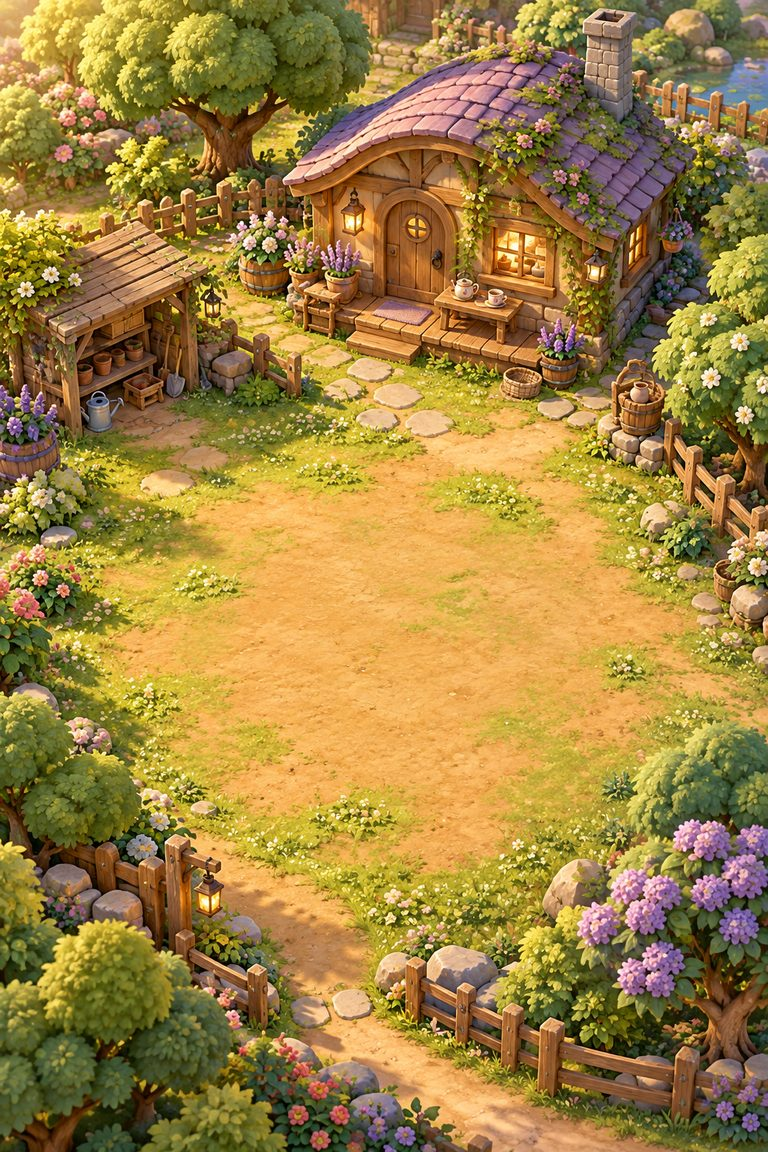
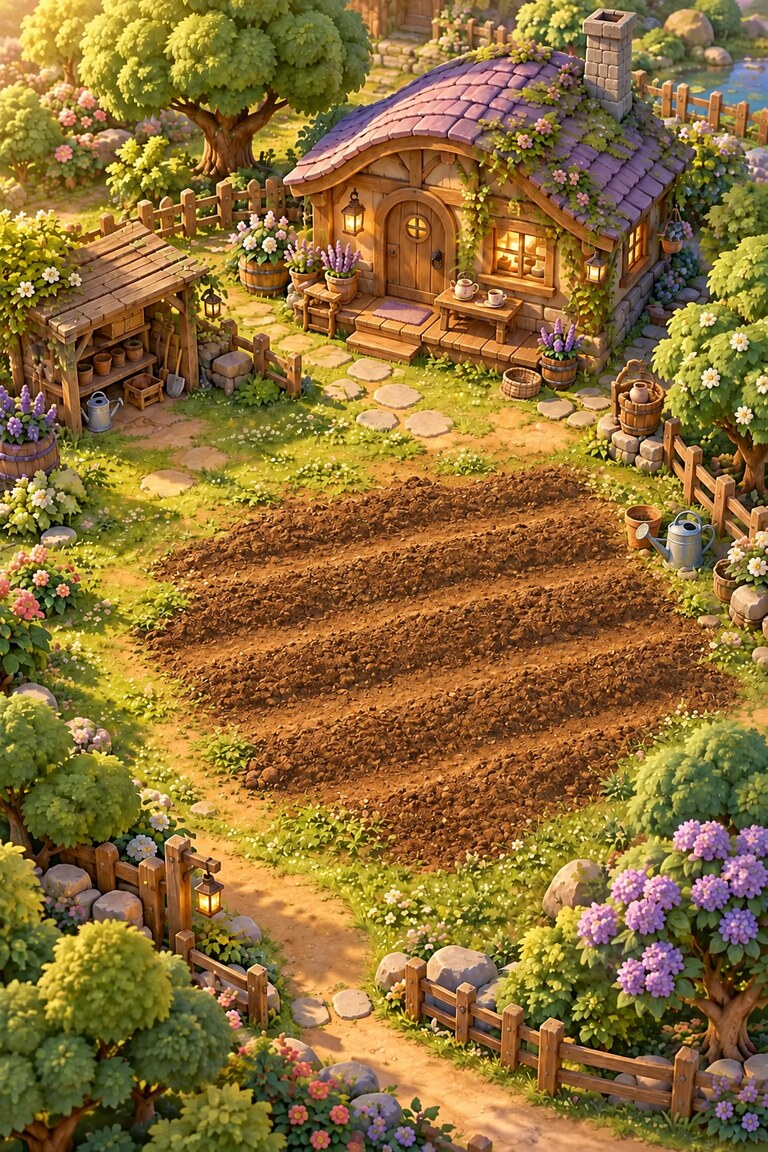
Make the garden a continuous planted field with direct tending

diff --git a/artifacts/mobile/components/world/VegetableGarden.tsx b/artifacts/mobile/components/world/VegetableGarden.tsx
@@ -1,16 +1,17 @@
 import React,{useEffect,useRef,useState} from 'react';
-import {AppState,Pressable,StyleSheet,Text,View} from 'react-native';
-import Svg,{Circle,Defs,Ellipse,G,LinearGradient,Path,RadialGradient,Rect,Stop} from 'react-native-svg';
+import {AppState,Image,Pressable,StyleSheet,Text,View} from 'react-native';
+import Svg,{Circle,Defs,Ellipse,Path,RadialGradient,Rect,Stop} from 'react-native-svg';
 import {useApp} from '@/contexts/AppContext';
 import {useAuth} from '@/contexts/AuthContext';
 import {BottomSheet} from '@/components/ui/BottomSheet';
 import {VillageResident} from '@/components/village/VillageActors';
 import {CROPS,gardenUnlocked,wholesaleUnlocked,readGarden,plotStatus,type CropId,type GardenOperation} from '@/utils/vegetableGarden';
 import {getTodayDate} from '@/utils/dateUtils';
+import {GARDEN_CROP_ART} from '@/utils/worldArt';
 
 const cropIds=Object.keys(CROPS) as CropId[];
 type Action=GardenOperation extends infer O?O extends GardenOperation?Omit<O,'revision'>:never:never;
-function useGarden(){
+export function useGarden(){
  const {feedState,runGarden,isLoading,cloudSynced}=useApp(),{isSignedIn,isLoading:authLoading}=useAuth();
  const [today,setToday]=useState(getTodayDate),[busy,setBusy]=useState(false),[message,setMessage]=useState(''),[error,setError]=useState('');
  const pending=useRef(false),alive=useRef(true);
@@ -19,7 +20,7 @@ function useGarden(){
  const unlocked=gardenUnlocked(feedState),ready=unlocked&&!readError&&!isLoading&&!authLoading&&(!isSignedIn||cloudSynced);
  const act=async(op:Action)=>{
   if(!ready||pending.current)return;pending.current=true;setBusy(true);setError('');setMessage('');
-  try{const saved=await runGarden({...op,revision:garden.revision});if(alive.current)setMessage(saved.message);}
+  try{const saved=await runGarden({...op,revision:garden.revision});if(alive.current)setMessage(saved.message);return saved;}
   catch(e){if(alive.current)setError(e instanceof Error?e.message:'保存できませんでした。もう一度お試しください。');}
   finally{pending.current=false;if(alive.current)setBusy(false);}
  };
@@ -33,46 +34,45 @@ export function GrandmotherResident({size,active,reduceMotion}:{size:number;acti
   <Circle cx="37" cy="47" r="10" fill="#FFFFFF08" stroke="#977451" strokeWidth="1.8"/><Circle cx="64" cy="47" r="10" fill="#FFFFFF08" stroke="#977451" strokeWidth="1.8"/><Path d="M47 45Q51 42 54 45M27 45L21 43M74 45L80 43" stroke="#977451" strokeWidth="1.6" fill="none"/>
  </Svg></View>;
 }
+/** A single shared atlas keeps the field lightweight, including on phones. */
 export function CropArt({crop,growth=7,size=72}:{crop:CropId;growth?:number;size?:number}){
- const mature=growth>=7,fruit=growth>=5,leaves=growth>=3;
- return <Svg width={size} height={size} viewBox="0 0 100 100"><Defs><RadialGradient id={`veg-${crop}`} cx=".3" cy=".25"><Stop stopColor={crop==='tomato'?'#FFAD82':crop==='carrot'?'#FFD082':'#FFFDEF'}/><Stop offset="1" stopColor={crop==='tomato'?'#A72F3A':crop==='carrot'?'#CE6127':'#C8BDA6'}/></RadialGradient><LinearGradient id={`leaf-${crop}`}><Stop stopColor="#A9D966"/><Stop offset="1" stopColor="#3F733F"/></LinearGradient></Defs>
-  <Ellipse cx="51" cy="83" rx={leaves?29:17} ry="7" fill="#2F2A1D30"/>
-  {growth===0?<G><Ellipse cx="48" cy="76" rx="13" ry="5" fill="#8B5636"/><Ellipse cx="48" cy="74" rx="3" ry="2" fill="#EBD1A4"/></G>:<G>
-   <Path d={crop==='tomato'&&leaves?'M50 83V30M50 61L26 43M50 53L74 31':'M50 82Q47 62 51 39'} fill="none" stroke="#517F3C" strokeWidth="4"/>
-   {(leaves?[[45,49,-35],[60,35,35],[35,62,-55],[63,57,40]]:[[41,62,-35],[59,54,40]]).map(([x,y,r],i)=><Ellipse key={i} cx={x} cy={y} rx={leaves?10:8} ry={leaves?19:13} rotation={r} origin={`${x}, ${y}`} fill={`url(#leaf-${crop})`}/>)}
-   {fruit&&(crop==='tomato'?<G>{[[31,63],[67,54],[58,76]].map(([x,y],i)=><G key={i}><Circle cx={x} cy={y} r={mature?14:10} fill={mature?`url(#veg-${crop})`:'#BDCC68'}/><Path d={`M${x-7} ${y-10}l7 3l6-4l-3 7l-7-1Z`} fill="#42743A"/><Ellipse cx={x-4} cy={y-4} rx="3" ry="4" fill="#FFE6BF66"/></G>)}</G>:crop==='turnip'?<G><Path d="M50 81Q58 86 54 92" stroke="#E0D2BD" strokeWidth="2" fill="none"/><Ellipse cx="50" cy="71" rx={mature?23:15} ry={mature?19:12} fill={`url(#veg-${crop})`}/></G>:<G><Path d={mature?'M33 62Q49 51 67 61Q64 84 49 94Q36 79 33 62':'M39 68Q50 59 61 68L51 90Z'} fill={`url(#veg-${crop})`}/><Path d="M40 67L50 69M47 77L58 75M48 85L53 83" stroke="#C66C32" strokeWidth="2" strokeLinecap="round"/></G>)}
-  </G>}
- </Svg>;
+ const tile=growth<5?{x:0,y:0}:crop==='turnip'?{x:1,y:0}:crop==='carrot'?{x:0,y:1}:{x:1,y:1};
+ if(growth===0)return <Svg width={size} height={size} viewBox="0 0 100 100"><Ellipse cx="50" cy="86" rx="15" ry="4" fill="#422C2466"/><Ellipse cx="47" cy="84" rx="3" ry="1.5" fill="#C3A06A"/><Ellipse cx="54" cy="86" rx="2" ry="1" fill="#E4C998"/></Svg>;
+ return <View pointerEvents="none" style={{width:size,height:size,overflow:'hidden'}}><Image source={GARDEN_CROP_ART} resizeMode="stretch" style={{position:'absolute',width:size*2,height:size*2,left:-tile.x*size,top:-tile.y*size}}/></View>;
 }
-export const GARDEN_PLOTS=[{x:.45,y:.53},{x:.68,y:.53},{x:.45,y:.65},{x:.68,y:.65}];
+// Logical saved plantings follow the furrows of one continuous field; no plot borders.
+export const GARDEN_PLOTS=[.465,.535,.605,.675].map(y=>({x:.55,y}));
+function GardenCue({kind}:{kind:'water'|'harvest'|'plant'}){
+ return <View style={{width:26,height:26,borderRadius:13,backgroundColor:kind==='water'?'#E6F5F0EA':'#FFF2D4E8',alignItems:'center',justifyContent:'center',borderWidth:1,borderColor:'#FFFFFF80'}}><Svg width={17} height={17} viewBox="0 0 24 24">{kind==='water'?<Path d="M12 3C10 7 5 11 5 15a7 7 0 0 0 14 0c0-4-5-8-7-12Z" fill="#78AFBF" stroke="#47768D" strokeWidth="1.3"/>:kind==='harvest'?<Path d="m12 2 2.8 7.2L22 12l-7.2 2.8L12 22l-2.8-7.2L2 12l7.2-2.8Z" fill="#D3A340"/>:<><Path d="M12 21V10M12 14C3 15 2 6 3 5c7-1 10 3 9 9ZM12 11C12 4 18 2 22 3c0 6-4 9-10 8Z" fill="#72985B" stroke="#4E7041" strokeWidth="1.2"/></>}</Svg></View>;
+}
 export function GardenBeds({width,height,active,onPlot}:{width:number;height:number;active:boolean;onPlot:(i:number)=>void}){
- const {garden,today,error}=useGarden();
- return <>{error?<Text style={{position:'absolute',left:width*.24,top:height*.52,color:'#FFF4D9',backgroundColor:'#4C3843',padding:12}}>{error}</Text>:GARDEN_PLOTS.map((point,i)=>{
-  const plot=garden.plots[i],status=plotStatus(plot,today),size=width*.20;
-  const label=!plot?'種をまく':status.mature?'収穫できるよ':status.watered?'お水をあげたよ':'お水がほしいな';
-  return <Pressable testID={`garden-plot-${i}`} key={i} accessibilityRole="button" accessibilityLabel={`畑${i+1}、${plot?CROPS[plot.crop].name+'、':''}${label}`} disabled={!active} onPress={()=>onPlot(i)} style={{position:'absolute',left:width*point.x-size/2,top:height*point.y-size*.54,width:size,height:size*.85,zIndex:600}}>
-   <Svg width={size} height={size*.85} viewBox="0 0 140 120"><Defs><LinearGradient id={`soil-${i}`} x2="0" y2="1"><Stop stopColor={status.watered?'#594337':'#94704C'}/><Stop offset="1" stopColor={status.watered?'#3E3029':'#69472F'}/></LinearGradient></Defs><Ellipse cx="71" cy="96" rx="65" ry="17" fill="#3A322636"/><Path d="M4 47L116 36L138 88L22 105Z" fill="#8D623D"/><Path d="M5 39L117 29L138 78L22 95Z" fill={`url(#soil-${i})`} stroke="#C29460" strokeWidth="4"/>{[48,59,70,81].map(y=><Path key={y} d={`M20 ${y}L118 ${y-8}`} stroke="#AE84552F" strokeWidth="2"/>)}</Svg>
-   <View pointerEvents="none" style={{position:'absolute',left:size*.16,bottom:size*.18}}>{plot?<CropArt crop={plot.crop} growth={status.growth} size={size*.75}/>:<Text style={{fontSize:24,color:'#DFC9A2'}}>＋</Text>}</View>
-   <View pointerEvents="none" style={{position:'absolute',bottom:-11,alignSelf:'center',paddingHorizontal:6,paddingVertical:4,borderRadius:6,backgroundColor:status.mature?'#516643EF':'#332A35E8'}}><Text style={{fontSize:10,color:'#FFF0D4'}}>{label}</Text></View>
-  </Pressable>;
+ const {garden,today,error,ready}=useGarden();
+ if(error)return <Text accessibilityRole="alert" style={{position:'absolute',left:width*.24,top:height*.52,color:'#FFF4D9',backgroundColor:'#4C3843',padding:12}}>{error}</Text>;
+ return <>{GARDEN_PLOTS.map((row,i)=>{
+  const plot=garden.plots[i],status=plotStatus(plot,today);
+  const label=!plot?'種をまく':status.mature?'収穫する':status.watered?'育ち具合を見る':'水をあげる';
+  const cue=!plot?'plant':status.mature?'harvest':!status.watered?'water':null;
+  const scale=status.growth<3?.057+status.growth*.013:status.growth<5?.085+(status.growth-3)*.012:.11+(status.growth-5)*.012;
+  return <React.Fragment key={i}>{[.34,.48,.62,.76].map((x,j)=>{
+   const y=row.y+(row.x-x)*.16,size=width*scale*(j%2?.95:1.04),hit=Math.max(44,width*.125);
+   return <Pressable key={j} testID={`garden-plot-${i}${j?'--'+j:''}`} accessibilityRole="button" accessibilityLabel={`${plot?CROPS[plot.crop].name+'、':''}${label}、${i+1}列目`} disabled={!active||!ready} onPress={()=>onPlot(i)} style={{position:'absolute',left:width*x-hit/2,top:height*y-hit*.80,width:hit,height:hit,zIndex:600+i}}>
+    {plot&&<View pointerEvents="none" style={{position:'absolute',left:(hit-size)/2,top:hit*.80-size*.90}}><CropArt crop={plot.crop} growth={status.growth} size={size}/></View>}
+
+   </Pressable>;
+  })}{cue&&<Pressable testID={`garden-cue-${i}`} accessibilityRole="button" accessibilityLabel={`${plot?CROPS[plot.crop].name+'、':''}${label}、${i+1}列目`} disabled={!active||!ready} onPress={()=>onPlot(i)} style={{position:'absolute',left:width*.62-22,top:height*(row.y+(row.x-.62)*.16)-Math.max(44,width*.125)*.80+(plot?-Math.max(4,width*scale*1.04-Math.max(44,width*.125)*.58):Math.max(44,width*.125)*.25)-9,width:44,height:44,zIndex:720+i,alignItems:'center',justifyContent:'center'}}><GardenCue kind={cue}/></Pressable>}</React.Fragment>;
  })}</>;
 }
 function Feedback({garden}:{garden:ReturnType<typeof useGarden>}){return <>{!!garden.error&&<Text accessibilityRole="alert" style={s.error}>{garden.error}</Text>}{!!garden.message&&<Text accessibilityLiveRegion="polite" style={s.success}>{garden.message}</Text>}</>;}
 export function GardenSheet({plotIndex,onClose,onShop}:{plotIndex:number;onClose:()=>void;onShop:()=>void}){
  const g=useGarden(),plot=g.garden.plots[plotIndex],status=plotStatus(plot,g.today);
- return <BottomSheet visible title={`おばあさんの畑 · ${plotIndex+1}`} subtitle="少しずつ育つ、ふたりの楽しみ。" onClose={()=>{if(!g.busy)onClose();}}>
+ const plant=async(crop:CropId)=>{const saved=await g.act({kind:'plant',plot:plotIndex,crop});if(saved?.changed)onClose();};
+ return <BottomSheet visible title={plot?CROPS[plot.crop].name:'種をまく'} maxHeightRatio={.55} contentStyle={{gap:12}} onClose={()=>{if(!g.busy)onClose();}}>
   <Feedback garden={g}/>
   {plot?<>
-   <View style={{alignItems:'center'}}><CropArt crop={plot.crop} growth={status.growth} size={118}/><Text style={s.title}>{CROPS[plot.crop].name}</Text></View>
-   <Text style={s.copy}>{status.mature?'大きく育ったね。そろそろ収穫しよう！':`種まき ${plot.planted} · 育った日 ${status.growth}/7日\n${status.growth<1?'土の中で、芽を出す準備をしている。':status.growth<3?'小さな芽が顔を出した。':status.growth<5?'葉が大きく広がってきた。':plot.crop==='tomato'?'小さな実がふくらんできた。':'土の中で、野菜が丸々と育っている。'}`}</Text>
-   <Pressable testID={status.mature?'garden-harvest':'garden-water'} accessibilityRole="button" disabled={!g.ready||g.busy||(!status.mature&&status.watered)} style={[s.button,(!status.mature&&status.watered)&&s.disabled]} onPress={()=>void g.act({kind:status.mature?'harvest':'water',plot:plotIndex})}><Text style={s.buttonText}>{g.busy?'保存しています…':status.mature?`${CROPS[plot.crop].yield}個収穫する`:status.watered?'今日のお水はあげました':'お水をあげる'}</Text></Pressable>
-  </>:<>
-   <Text style={s.copy}>どの種をまこう。最初のお水も一緒にあげるよ。</Text>
-   {cropIds.map(c=><Pressable key={c} testID={`garden-plant-${c}`} accessibilityRole="button" disabled={!g.ready||g.busy||!g.garden.seeds[c]} onPress={()=>void g.act({kind:'plant',plot:plotIndex,crop:c})} style={[s.row,!g.garden.seeds[c]&&s.disabled]}><CropArt crop={c} size={55}/><View style={{flex:1}}><Text style={s.title}>{CROPS[c].seedName}</Text><Text style={s.small}>持っている種 {g.garden.seeds[c]}袋 · 最短7日</Text></View><Text style={s.small}>{g.garden.seeds[c]?'まく':'種がないよ'}</Text></Pressable>)}
-  </>}
-  <Text style={s.small}>1日1回、お水をあげた翌日に少し育ちます。7日分育つと収穫。来られない日があっても、枯れません。</Text>
-  <View style={s.row}><Text style={s.copy}>収穫かご</Text><Text style={s.small}>{cropIds.map(c=>`${CROPS[c].name} ${g.garden.produce[c]}`).join(' / ')}</Text></View>
-  <Pressable accessibilityRole="button" disabled={g.busy} onPress={onShop} style={s.button}><Text style={s.buttonText}>暮らしのお店で種を買う・野菜を売る</Text></Pressable>
+   <View style={{alignItems:'center',flexDirection:'row',gap:20}}><CropArt crop={plot.crop} growth={Math.max(1,status.growth)} size={88}/><View style={{gap:12}}><Text style={s.copy}>{status.mature?'収穫できるよ':status.watered?'今日のお水は、ばっちり。':'お水をあげよう'}</Text><View accessibilityLabel={`成長 ${status.growth} / 7日`} style={{flexDirection:'row',gap:6}}>{Array.from({length:7},(_,i)=><View key={i} style={{width:12,height:12,borderRadius:6,backgroundColor:i<status.growth?'#C4D799':'#544A5C'}}/>)}</View></View></View>
+   {(!status.watered||status.mature)&&<Pressable testID={status.mature?'garden-harvest':'garden-water'} accessibilityRole="button" disabled={!g.ready||g.busy} style={s.button} onPress={async()=>{const saved=await g.act({kind:status.mature?'harvest':'water',plot:plotIndex});if(saved?.changed)onClose();}}><Text style={s.buttonText}>{status.mature?'収穫する':'水をあげる'}</Text></Pressable>}
+  </>:<View style={{flexDirection:'row',gap:8}}>{cropIds.map(c=><Pressable key={c} testID={`garden-plant-${c}`} accessibilityRole="button" accessibilityLabel={`${CROPS[c].seedName}をまく、残り${g.garden.seeds[c]}袋`} disabled={!g.ready||g.busy||!g.garden.seeds[c]} onPress={()=>void plant(c)} style={[{flex:1,alignItems:'center',paddingVertical:12,borderRadius:16,backgroundColor:'#393040',gap:4},!g.garden.seeds[c]&&s.disabled]}><CropArt crop={c} size={68}/><Text style={s.buttonText}>{CROPS[c].name}</Text><Text style={s.small}>× {g.garden.seeds[c]}</Text></Pressable>)}</View>}
+  <Pressable accessibilityRole="button" disabled={g.busy} onPress={onShop} style={{minHeight:44,alignItems:'center',justifyContent:'center'}}><Text style={s.small}>種を買いに行く →</Text></Pressable>
  </BottomSheet>;
 }
 export function ProduceTrade({venue}:{venue:'homewares'|'ramen'}){
@@ -84,6 +84,6 @@ export function ProduceTrade({venue}:{venue:'homewares'|'ramen'}){
 }
 export function SeedShop(){
  const g=useGarden();
- return <View style={{gap:12}}>{!g.unlocked?<Text style={s.copy}>畑の種は、おばあさんに家へ招待してもらうと買えるようになります。</Text>:<><Text style={s.copy}>どの野菜も最短7日で収穫できます。1袋で1つの畑、収穫は3個。</Text><Feedback garden={g}/>{cropIds.map(c=><View key={c} style={s.row}><CropArt crop={c} size={66}/><View style={{flex:1,gap:6}}><Text style={s.title}>{CROPS[c].seedName}</Text><Text style={s.small}>持っている種 {g.garden.seeds[c]}袋</Text><Pressable testID={`garden-buy-${c}`} accessibilityRole="button" disabled={!g.ready||g.busy||g.feedState.points<CROPS[c].price} onPress={()=>void g.act({kind:'buy',crop:c})} style={[s.button,(g.busy||g.feedState.points<CROPS[c].price)&&s.disabled]}><Text style={s.buttonText}>{CROPS[c].price} ptで1袋買う</Text></Pressable></View></View>)}<ProduceTrade venue="homewares"/></>}</View>;
+ return <View style={{gap:12}}>{!g.unlocked?<Text style={s.copy}>畑の種は、おばあさんに家へ招待してもらうと買えるようになります。</Text>:<><Text style={s.small}>7日で収穫 · 1袋から3個</Text><Feedback garden={g}/>{cropIds.map(c=><View key={c} style={s.row}><CropArt crop={c} size={66}/><View style={{flex:1,gap:6}}><Text style={s.title}>{CROPS[c].seedName}</Text><Text style={s.small}>持っている種 {g.garden.seeds[c]}袋</Text><Pressable testID={`garden-buy-${c}`} accessibilityRole="button" disabled={!g.ready||g.busy||g.feedState.points<CROPS[c].price} onPress={()=>void g.act({kind:'buy',crop:c})} style={[s.button,(g.busy||g.feedState.points<CROPS[c].price)&&s.disabled]}><Text style={s.buttonText}>{CROPS[c].price} ptで1袋買う</Text></Pressable></View></View>)}<ProduceTrade venue="homewares"/></>}</View>;
 }
 const s=StyleSheet.create({row:{flexDirection:'row',alignItems:'center',gap:12,padding:12,borderRadius:12,backgroundColor:'#302738',marginVertical:5,flexWrap:'wrap'},title:{fontSize:15,fontWeight:'600',color:'#F4E7D6'},copy:{fontSize:13,lineHeight:24,color:'#E5D5C0',marginVertical:10},small:{fontSize:11,lineHeight:20,color:'#C6B5C9'},button:{minHeight:44,paddingHorizontal:13,paddingVertical:11,borderRadius:10,backgroundColor:'#674F76',justifyContent:'center',marginVertical:6},buttonText:{fontSize:13,lineHeight:20,textAlign:'center',color:'#FFF2DD'},disabled:{opacity:.45},error:{fontSize:12,lineHeight:21,color:'#F4BCB4'},success:{fontSize:13,lineHeight:23,color:'#DFE9BA',padding:10,backgroundColor:'#354735',borderRadius:9}});

diff --git a/artifacts/mobile/components/world/WorldHome.tsx b/artifacts/mobile/components/world/WorldHome.tsx
@@ -1,5 +1,5 @@
-import {GardenBeds,GardenSheet,GrandmotherResident,GARDEN_PLOTS} from './VegetableGarden';
-import {gardenUnlocked,readGarden,wholesaleUnlocked} from '@/utils/vegetableGarden';
+import {GardenBeds,GardenSheet,GrandmotherResident,GARDEN_PLOTS,useGarden} from './VegetableGarden';
+import {gardenUnlocked,readGarden,wholesaleUnlocked,plotStatus} from '@/utils/vegetableGarden';
 import {useVillageStories,VillageStoryDialogue,StoryEncounterActor,StoryWorldKeepsakes} from './VillageStories';
 import {storyEncounters,canHearStory,type StoryEncounter,type StoryMerchant} from '@/utils/storyEncounters';
 import {useAuth} from '@/contexts/AuthContext';
@@ -80,6 +80,10 @@ export function WorldHome(props: Props) {
   const {reduceMotion} = props;
   const {awardHappiness,feedState,bowlingState}=useApp();
   const grandmaUnlocked=gardenUnlocked(feedState);
+  const garden=useGarden();
+  const [gardenNotice,setGardenNotice]=useState('');
+  useEffect(()=>{if(!gardenNotice)return;const timer=setTimeout(()=>setGardenNotice(''),4500);return()=>clearTimeout(timer);},[gardenNotice]);
+  useEffect(()=>{if(garden.error)setGardenNotice(garden.error);},[garden.error]);
   let harvested=false;try{harvested=readGarden(feedState.vegetableGarden).harvests>0;}catch{}
   const [gardenPlot,setGardenPlot]=useState<number|null>(null),[grandmaOpen,setGrandmaOpen]=useState(false);
   const [zooming,setZooming]=useState(false);
@@ -122,7 +126,7 @@ export function WorldHome(props: Props) {
   const pending=useRef<{id:number;action:VillageAction}|null>(null);
   const [mapMessage,setMapMessage]=useState('');
   const transition=useSceneTransition(reduceMotion,()=>setMapMessage('景色を読み込めませんでした。もう一度、行き先を選んでね。'));
-  const active=props.active&&gardenPlot===null&&!grandmaOpen&&!storyOpen&&!plaza.open&&!bowlingOpen&&!cleanOpen&&!bankOpen&&!fortuneOpen&&!mapOpen&&!placesOpen&&!viewOpen&&!neighbor&&!transition.busy&&!zooming;
+  const active=props.active&&!garden.busy&&gardenPlot===null&&!grandmaOpen&&!storyOpen&&!plaza.open&&!bowlingOpen&&!cleanOpen&&!bankOpen&&!fortuneOpen&&!mapOpen&&!placesOpen&&!viewOpen&&!neighbor&&!transition.busy&&!zooming;
   const housekeeping=useHousekeeping(props.active);
   useEffect(()=>{if(!housekeeping.house.robotPlaced)setRiding(false);},[housekeeping.house.robotPlaced]);
   const [bowlingBusy,setBowlingBusy]=useState(false);
@@ -269,7 +273,14 @@ export function WorldHome(props: Props) {
     else if(a.kind==='shop')props.onShop();
     else if(a.kind==='feed')props.onFeed();
     else if(a.kind==='story')openStory(a.encounter);
-    else if(a.kind==='garden')setGardenPlot(a.plot);
+    else if(a.kind==='garden'){
+      const plot=garden.garden.plots[a.plot],status=plotStatus(plot,garden.today);
+      if(!garden.ready||garden.busy)return;
+      if(!plot||(!status.mature&&status.watered)){setGardenPlot(a.plot);return;}
+      void garden.act({kind:status.mature?'harvest':'water',plot:a.plot}).then(saved=>{
+        if(saved?.changed)setGardenNotice(status.mature?`${plot.crop==='turnip'?'小かぶ':plot.crop==='carrot'?'にんじん':'トマト'} ＋3`:'水をあげたよ');
+      });
+    }
     else if(a.kind==='plaza'){view.reset();plaza.talk();}
     else if(a.kind==='neighbor'){setNeighbor(a.id);setReply('');}
   };
@@ -330,8 +341,8 @@ export function WorldHome(props: Props) {
       {sceneResidents.map(encounter=><StoryEncounterActor key={encounter.key} encounter={encounter} width={width} height={height} active={active&&!props.food&&!experience} reduceMotion={reduceMotion} onTalk={()=>request(encounter.id==='grandma'?{x:encounter.point.x-.14,y:encounter.point.y+.035}:encounter.point,{kind:'story',encounter})}/>)}
       {stories.ready&&<StoryWorldKeepsakes hideNewcomer={sceneResidents.some(st=>st.id==='newcomer'||st.id==='festival')} state={stories.state} map={map} width={width} height={height} active={active} reduceMotion={reduceMotion} onTalk={()=>setMapMessage(stories.state.arcs.festival?.episodes.length===6?'あのお祭り、楽しかったね。今日もここで、のんびりしていって。':'おかえり！ あのお茶会から、ここで誰かに会うのが楽しみになったんだ。')}/>}
       {map==='grandma'&&grandmaUnlocked&&<>
-       <GardenBeds width={width} height={height} active={active&&!props.food} onPlot={i=>request({x:GARDEN_PLOTS[i].x-.05,y:GARDEN_PLOTS[i].y+.065},{kind:'garden',plot:i})}/>
-       <Pressable testID="garden-grandmother" accessibilityRole="button" accessibilityLabel="おばあさんと話す" disabled={!active||!!props.food} onPress={()=>{steering.value={x:0,y:0};setDestination(null);pending.current=null;setGrandmaOpen(true);}} style={{position:'absolute',left:width*.24,top:height*.48-width*.17,zIndex:700}}><GrandmotherResident size={width*.17} active={active} reduceMotion={reduceMotion}/></Pressable>
+       <GardenBeds width={width} height={height} active={active&&!props.food} onPlot={i=>request({x:.23,y:GARDEN_PLOTS[i].y+.08},{kind:'garden',plot:i})}/>
+       <Pressable testID="garden-grandmother" accessibilityRole="button" accessibilityLabel="おばあさんと話す" disabled={!active||!!props.food} onPress={()=>{steering.value={x:0,y:0};setDestination(null);pending.current=null;setGrandmaOpen(true);}} style={{position:'absolute',left:width*.15,top:height*.45-width*.17,zIndex:700}}><GrandmotherResident size={width*.17} active={active} reduceMotion={reduceMotion}/></Pressable>
       </>}
       {map==='lake'&&<VillageWheel width={width} height={height} active={active} reduceMotion={reduceMotion} riding={experience==='wheel'} onFinish={finishExperience}/>}
       {map==='village'&&<VillageNeighbors width={width} height={height} active={active&&!experience} reduceMotion={reduceMotion} onTalk={id=>{const n=VILLAGERS.find(p=>p.id===id)!;request({x:n.x+.06,y:n.y+.035},{kind:'neighbor',id});}}/>}
@@ -364,7 +375,7 @@ export function WorldHome(props: Props) {
     {!experience&&(map==='home'||(map==='market'&&!plaza.current&&!plaza.error)||map==='workshop')&&<View style={{position:'absolute',right:20,bottom:away?dockBottom+30:bounds.height<600?177:244}}><WorldPill testID="world-go-work" label={map==='workshop'?'仕事を始める':'バイトする'} icon="briefcase" onPress={()=>map==='workshop'?openMerchant('job',{x:.5,y:.48}):enterMap('workshop')} disabled={!active||!!props.food||riding||!!cleanTool}/></View>}
     {storyOpen&&<VillageStoryDialogue encounter={storyOpen} onGo={target=>{setStoryOpen(null);enterMap(target);}} onClose={()=>setStoryOpen(null)} onBowl={()=>{pendingBowlStory.current=storyOpen;setStoryOpen(null);serveMerchant('bowling',{x:.72,y:.57});}} service={storyOpen.merchant?{label:storyOpen.id==='supply'&&wholesaleUnlocked(feedState)?'野菜を卸す':({ramen:'ラーメンを注文する',shop:'買い物をする',job:'バイトを始める',bowling:'ボウリングをする',fortune:'占ってもらう'} satisfies Record<StoryMerchant,string>)[storyOpen.merchant],run:()=>{const kind=storyOpen.merchant!;if(kind==='bowling'&&!bowlingPlayedToday(bowlingState,getTodayDate())&&storyOpen.id==='bowling'&&storyOpen.index===4)pendingBowlStory.current=storyOpen;setStoryOpen(null);serveMerchant(kind,{x:.5,y:.55});}}:undefined}/>}
     {map==='grandma'&&grandmaUnlocked&&gardenPlot!==null&&<GardenSheet plotIndex={gardenPlot} onClose={()=>setGardenPlot(null)} onShop={()=>{setGardenPlot(null);props.onShop('seeds');}}/>}
-    {grandmaOpen&&<BottomSheet visible title="もふもふのおばあさん" onClose={()=>setGrandmaOpen(false)}><View style={{alignItems:'center'}}><GrandmotherResident size={95} active={props.active} reduceMotion={reduceMotion}/></View><Text style={s.dialogue}>{harvested?'「あら、畑の土がいい匂い。育ったところを一緒に見られるの、うれしいよ。お茶もいれてあるからね」':'「よく来たねえ。畑は4つ、どこでも使っておくれ。今日は種をまくだけでもいいんだよ」'}</Text><Text style={s.mapCopy}>水やりは1日1回。種まきの日から最短7日で収穫できます。来られない日があっても枯れず、水をあげた分だけゆっくり育ちます。</Text><WorldPill label="畑を見てくるね" onPress={()=>setGrandmaOpen(false)}/></BottomSheet>}
+    {grandmaOpen&&<BottomSheet visible title="もふもふのおばあさん" onClose={()=>setGrandmaOpen(false)}><View style={{alignItems:'center'}}><GrandmotherResident size={95} active={props.active} reduceMotion={reduceMotion}/></View><Text style={s.dialogue}>{harvested?'「あら、畑の土がいい匂い。育ったところを一緒に見られるの、うれしいよ。お茶もいれてあるからね」':'「よく来たねえ。畑、好きに使っておくれ。お茶もいれてあるよ」'}</Text><WorldPill label="畑を見てくるね" onPress={()=>setGrandmaOpen(false)}/></BottomSheet>}
     {!!props.music.error&&<Text style={[s.musicNotice,{top:insets.top+(tight?112:162)}]}>{props.music.error}</Text>}
     <Modal visible={bowlingOpen} animationType={reduceMotion?'none':'fade'} onRequestClose={()=>{if(!bowlingBusy){setBowlingOpen(false);view.reset();}}} statusBarTranslucent>
       <View style={{flex:1,backgroundColor:'#14131D',paddingTop:Math.max(insets.top,12),paddingBottom:Math.max(insets.bottom,12),paddingHorizontal:10}}>
@@ -408,6 +419,7 @@ export function WorldHome(props: Props) {
     {bankOpen&&<BankHall onClose={()=>{setBankOpen(false);view.reset();}}/>}
     {fortuneOpen&&<FortuneHall onClose={()=>{setFortuneOpen(false);view.reset();}}/>}
     {mapOpen&&<VillageMap current={map} night={night} level={props.level} disabled={!!experience||!!props.food||transition.busy} onSelect={id=>enterMap(id,true)} onClose={()=>setMapOpen(false)}/>}
+    {map==='grandma'&&!!gardenNotice&&<Pressable accessibilityRole="button" accessibilityLabel="畑のお知らせを閉じる" onPress={()=>setGardenNotice('')} style={{position:'absolute',bottom:112,alignSelf:'center',paddingHorizontal:20,paddingVertical:12,borderRadius:24,backgroundColor:'#302B35EC'}}><Text accessibilityLiveRegion="polite" style={s.trailText}>{gardenNotice}</Text></Pressable>}
     {!!mapMessage&&!mapOpen&&<Pressable accessibilityRole="button" accessibilityLabel="道の案内を閉じる" onPress={()=>setMapMessage('')} style={[s.notice,{top:insets.top+166}]}><Text accessibilityLiveRegion="polite" style={s.trailText}>{mapMessage}　×</Text></Pressable>}
     {experience&&<View testID="village-experience" style={[s.experience,{bottom:dockBottom+4,left:132,right:16,padding:10,gap:5}]}>
       <Text testID="village-experience-status" style={s.experienceText}>{experience==='smoke'?`${smoking.running?'喫煙中':'一服おわり'} ${Math.floor(smoking.elapsedMs/1000)}/60秒 · 幸福＋${smoking.receipt?.gained??0} 清潔−${smoking.receipt?.dirt??0}`:experience==='wheel'?'空から、いつもの世界を眺めよう。':experienceMessage}</Text>

diff --git a/artifacts/mobile/data/villageStories.ts b/artifacts/mobile/data/villageStories.ts
@@ -46,7 +46,7 @@ export const VILLAGE_STORIES:VillageStory[] = [
   e('小さな村の、大きな夜','market','村のみんな','湯気、提灯、ボウリング大会の旗。猫も、鈴をつけてやって来た。\nもふもふが「おかえり！」と手を振っている。',['屋台をみんなと回る','灯りの下で一緒に過ごす'],['ラーメンをすすり、旗を振って、猫の話を聞いた。どこへ行っても、知っている顔がある。','にぎやかな声を少し離れて聞いた。もふもふが隣へ来て、同じ灯りを見上げた。'],'にぎやかな夜の、そのあと。'),
   e('また、ここで','market','引っ越してきたもふもふ','片づけた広場に、少しだけ提灯を残した。\n「最初、ここに来たときは、何も知らなかったのにね」\n机には、みんなで撮った写真が一枚。',['集合写真を受け取る','「またやろうね」と伝える'],['真ん中で笑うもふもふ。そのとなりにあなた。村と過ごした日々が、思い出になった。','「うん、また！」その言葉と集合写真を、大切に持ち帰った。'],'今日は何も起きなくても、この村はあなたを覚えている。'),
  ]},
- {id:'grandma',title:'おばあさんの、もう一度の畑',subtitle:'広場の小さな出会いから、お茶と畑のある暮らしへ。',requires:[],keepsake:'おばあさんが描いてくれた家の地図',ending:'地図に「おばあさんの家」が加わりました。4つの畑と、最初の種を自由に使えます。',episodes:[
+ {id:'grandma',title:'おばあさんの、もう一度の畑',subtitle:'広場の小さな出会いから、お茶と畑のある暮らしへ。',requires:[],keepsake:'おばあさんが描いてくれた家の地図',ending:'地図に「おばあさんの家」が加わりました。畑と、最初の種を自由に使えます。',episodes:[
   e('ころころ転がる買い物','market','もふもふのおばあさん','広場の石畳に、買い物かごから転がったみかん。おばあさんがひとつずつ拾っている。\n「あらあら、今日はかごの方が先に帰りたかったのかねえ」',['一緒にみかんを拾う','かごを押さえて手伝う'],['「ありがとう。これでジャムが作れるよ」おばあさんは、かごを抱えてにっこり笑った。','最後のみかんを拾って「気づいてくれて、うれしかったよ」と笑った。'],'また広場で会えたら、声をかけてみよう。'),
   e('覚えていてくれた顔','ramen','もふもふのおばあさん','ラーメン屋の席から、小さく手が振られた。\n「この前の子だね。ここのスープ、昔うちで作った野菜の味を思い出すんだよ」',['隣で昔の畑の話を聞く','どんな野菜を育てていたか聞く'],['「かぶに、にんじん。トマトはね、つまみ食いの方が多かった」話すうちに、おばあさんの声が弾んだ。','「形は不ぞろいでも、採れたては甘いんだ」窓の外を見ながら、懐かしそうに笑った。'],'次に会うのは、暮らしのお店かもしれない。'),
   e('ふたり分のお茶','homewares','もふもふのおばあさん','棚の前で、おばあさんが小さな茶器を見比べている。\n「誰かとお茶を飲むのも、しばらくぶりでね。どっちにしようか」',['花模様の茶器をすすめる','手になじむ丸い茶器をすすめる'],['「きみが来たら、この湯のみを使おうか」ひとつだった買い物かごに、ふたつの湯のみが並んだ。','「そうそう、こういう丸さが好きなんだよ」おばあさんは、もうひとつ同じものを選んだ。'],'広場で、畑を休ませた理由を聞く。'),

diff --git a/artifacts/mobile/utils/worldArt.ts b/artifacts/mobile/utils/worldArt.ts
@@ -4,6 +4,7 @@ import type { WorldMapId } from './worldMaps';
 
 // Web uses smaller encodings; native retains its existing JPEG/PNG assets.
 const webArt = (web: number, native: number) => Platform.OS === 'web' ? web : native;
+export const GARDEN_CROP_ART = webArt(require('@/assets/images/world/garden-crops.webp'), require('@/assets/images/world/garden-crops.png'));
 export const VILLAGE_ATLAS = webArt(require('@/assets/images/world/village-atlas.webp'), require('@/assets/images/world/village-atlas.jpg'));
 export const MERCHANT_ART = {
   bank: webArt(require('@/assets/images/world/bank-teller.webp'), require('@/assets/images/world/bank-teller.png')),
@@ -53,7 +54,7 @@ export function prepareWorldArt(map: WorldMapId, night = false): Promise<void> {
   const existing = scenes.get(key);
   if (existing) return existing;
   const portrait = map === 'bank' ? MERCHANT_ART.bank : map === 'fortune' ? FORTUNE_CAT_ART : map === 'homewares' ? MERCHANT_ART.shop : map === 'workshop' ? MERCHANT_ART.job : map === 'bowling' ? MERCHANT_ART.bowling : map === 'ramen' ? MERCHANT_ART.ramen : map === 'tobacco' ? MERCHANT_ART.tobacco : undefined;
-  const sources = [worldArt(map, night), ...(portrait ? [portrait] : [])];
+  const sources = [worldArt(map, night), ...(map === 'grandma' ? [GARDEN_CROP_ART] : []), ...(portrait ? [portrait] : [])];
   const promise = Promise.all(sources.map(prepareImage)).then(() => {}).catch(error => { scenes.delete(key); throw error; });
   scenes.set(key, promise);
   return promise;

diff --git a/docs/GARDEN_VISUAL_20261013.md b/docs/GARDEN_VISUAL_20261013.md
@@ -1,0 +1,32 @@
+# 畑の見た目と操作の更新 — 2026-10-13
+
+4つの箱を描く方式をやめ、家の庭に直接続く一枚の畑に変更。土の畝に野菜を並べ、常時表示の説明札と長い育て方の説明を削除しました。
+
+水が必要な野菜は水滴、収穫できる野菜は光、種をまける場所は芽の合図で表示。野菜または合図をタップして近づくと、その場で水やり・収穫を行います。種まきは3種類の種と所持数だけの小さな選択画面です。水やり済みの野菜は短い状態表示と7つの成長目盛りで確認できます。
+
+既存の4件の植え付けデータをそのまま畝に割り当てるため、移行・初期化は不要です。7日分の水やり、収穫、販売、卸売のルールは変更していません。
+
+## 素材
+
+組み込みの image_gen ツールを使用。以下は生成結果を配信用サイズ・形式に変換したものです。Webでは背景233KB、共通の野菜アトラス185KB。アトラス1枚を複数の株で共有し、畑に入る際に先読みします。
+
+- `/workspace/scratch/e5c65962f54a/yoki/artifacts/mobile/assets/images/world/grandmother-garden.webp`
+- `/workspace/scratch/e5c65962f54a/yoki/artifacts/mobile/assets/images/world/grandmother-garden.jpg`
+- `/workspace/scratch/e5c65962f54a/yoki/artifacts/mobile/assets/images/world/garden-crops.webp`
+- `/workspace/scratch/e5c65962f54a/yoki/artifacts/mobile/assets/images/world/garden-crops.png`
+
+## 生成プロンプト
+
+### 背景の編集
+
+Use case: precise-object-edit. Edit target: supplied portrait 3D cozy cottage game background. Preserve cottage, trees, flowers, fence, lighting, camera angle and portrait composition exactly. Change only the empty ochre dirt clearing in the middle foreground into a beautiful real vegetable field integrated directly into the ground. ONE connected irregular patch of rich crumbly tilled brown earth, not separate square plots, no wood borders, no raised planter boxes, no grid. Main cultivated earth occupies x=36% to 77% and y=47% to 70% of full image. Four long closely spaced gently diagonal furrows running almost horizontally across this one continuous patch, from left slightly lower to right slightly higher. Soft realistic moist soil clumps, warm highlights, convincing ridges and recesses, natural grassy uneven edges. NO vegetables yet, no plants within the furrows: these are an empty game layer for later crop sprites. Leave a walkable narrow path along the left edge and foreground. Tiny terracotta seed pot and weathered watering can at the far right edge are okay. Keep beautiful soft detailed 3D storybook game style. No UI, no words, no frames, no people.
+
+### 透過の野菜アトラス
+
+Use case: stylized-concept. Asset type: transparent 2 by 2 game sprite atlas, square image. Four distinct isolated vegetable PLANTS for a cozy high quality 3D garden game. TRUE transparent background. Divide canvas into exactly equal quadrants, ample transparent padding within EACH cell, no overlap between cells. Each plant base center aligned within its cell at 75 percent height, plant fits between 15 and 85 percent width and 10 and 80 percent height. Top left: a small delicate seedling with four vibrant fleshy green leaves and short stalk, rooted in tiny natural dark soil crumbs. Top right: lush small white turnip plant growing in ground, spherical white bulb shoulder only partly exposed above soil, a generous cluster of curling green leaves. Bottom left: lush carrot plant with feathery natural fine fernlike green foliage, tiny orange shoulder peeking at base, most of root remains underground, NOT a harvested carrot. Bottom right: compact bushy tomato plant with leafy curved stems, several ripe small red and orange tomatoes and a slender bamboo support stake. Exact same isometric view from above around 40 degrees, soft golden light upper left, detailed sculpted 3D leaves with subtle translucency and curled edges, believable small soft contact shadows. Beautiful soft tactile 3D rendering, natural farm garden plants, not icons, not cartoon flat vectors. Each object is standalone and fully contained in its allotted square quadrant. No pots, no boxes, no floor tile, no labels, no letters, no grid lines, no background.
+
+## 確認
+
+- 畑・物語の既存テスト22件成功。
+- Replitの390 × 800表示で、直接の水やり・収穫、種の選択と種まき、会話人物と野菜の重なりを確認。
+- 確認用の状態はメモリ上のみ。保存済みのプロフィール・日記・畑のデータは変更していません。
